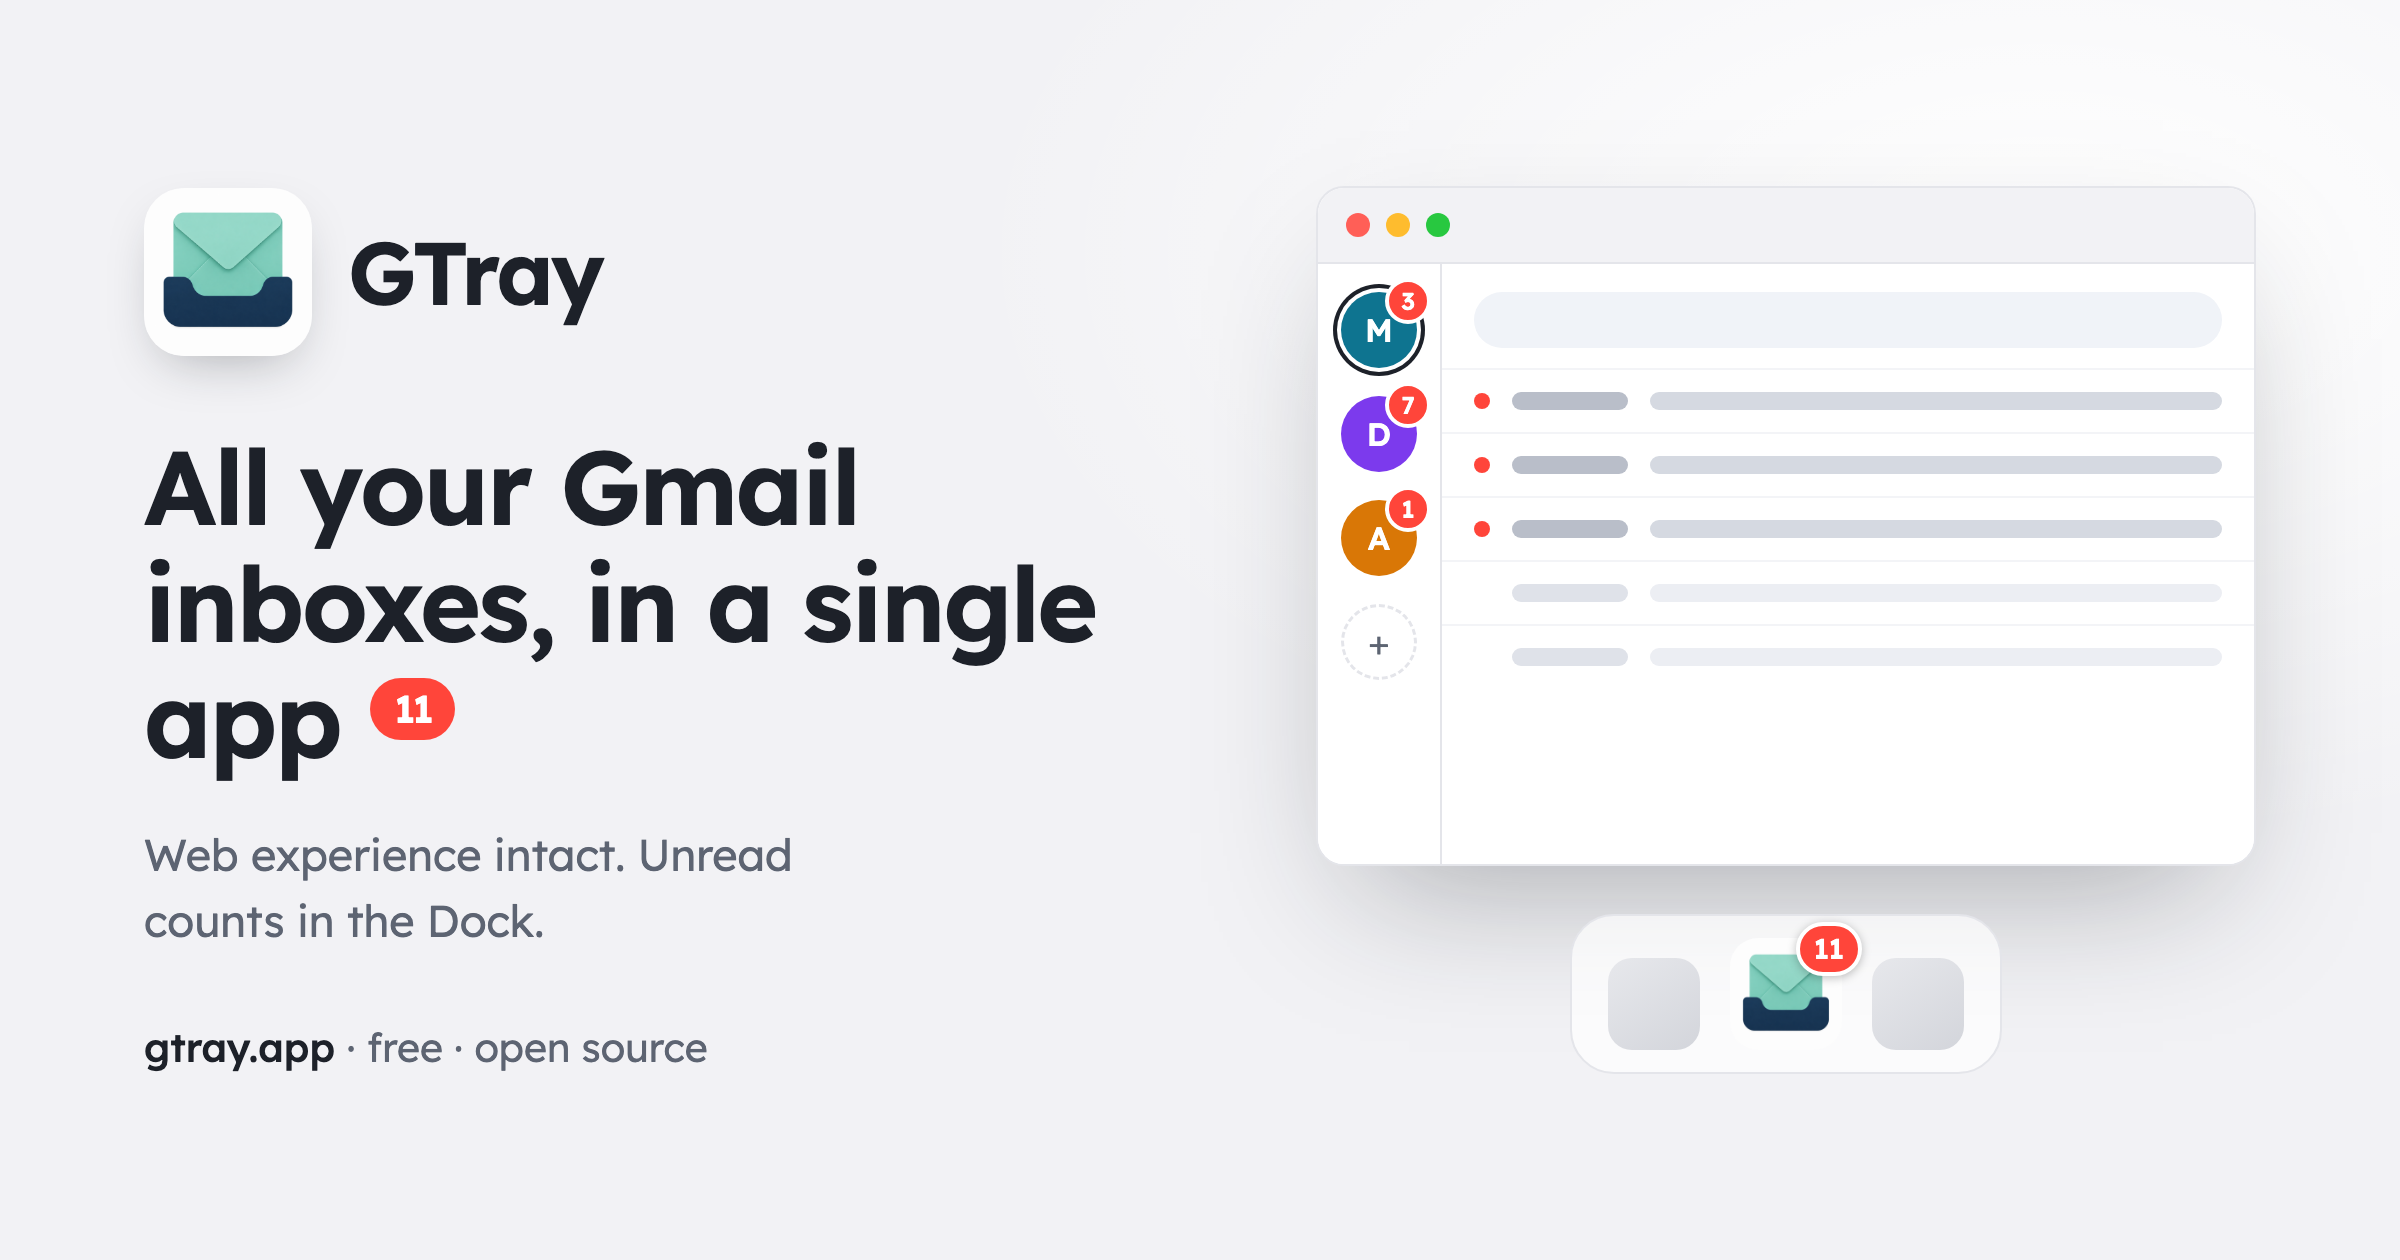
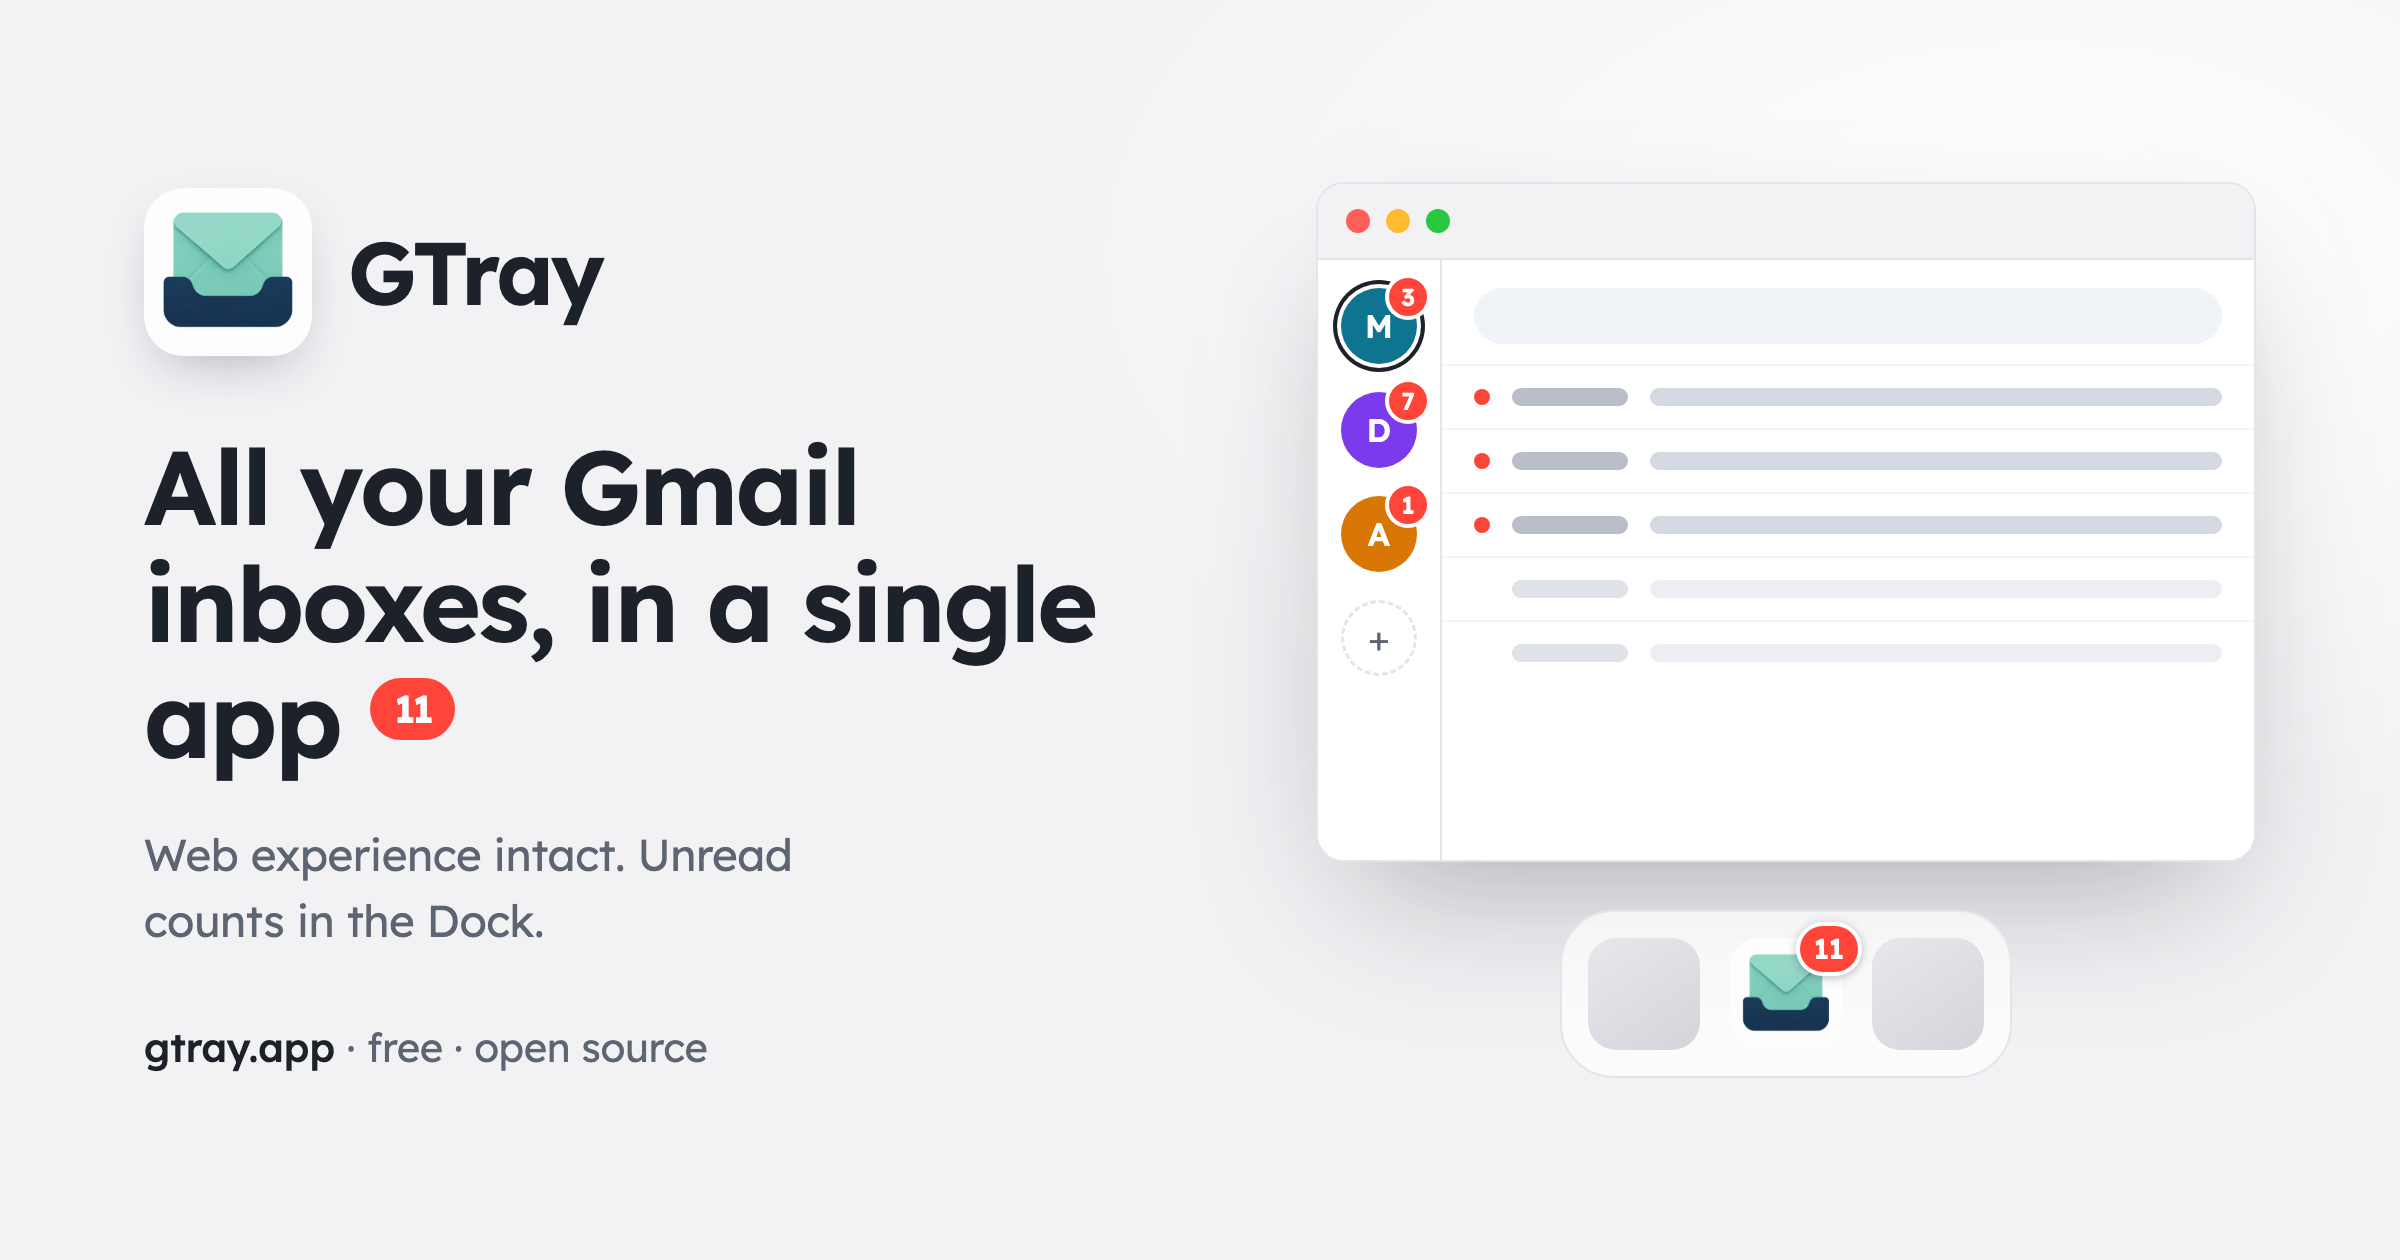
Dock mockup: concentric corners, even padding, equal tile sizes
Outer radius = tile radius + padding; the pill now hugs its content
instead of stretching to the caption width.

diff --git a/landing/index.html b/landing/index.html
@@ -188,13 +188,15 @@
 
   /* ---------- dock ---------- */
   .dock {
-    display: flex; align-items: flex-end; gap: 14px;
-    padding: 10px 16px;
+    display: flex; align-items: center; gap: 14px;
+    width: fit-content; margin: 0 auto;
+    /* concentric: outer radius = tile radius (13) + padding (12) */
+    padding: 12px;
     background: rgba(242, 242, 245, 0.85);
     border: 1px solid var(--line);
-    border-radius: 20px;
+    border-radius: 25px;
   }
-  .dock .app { width: 44px; height: 44px; border-radius: 11px; background: linear-gradient(145deg, #e7e8ec, #d3d5db); }
+  .dock .app { width: 52px; height: 52px; border-radius: 13px; background: linear-gradient(145deg, #e7e8ec, #d3d5db); }
   .dock .gtray { position: relative; width: 52px; height: 52px; }
   .dock .gtray img { width: 52px; height: 52px; border-radius: 13px; display: block; }
   .dock .gtray .count {

diff --git a/landing/og.html b/landing/og.html
@@ -106,13 +106,14 @@
   .row.unread .subject { background: #d5d9e1; }
 
   .dock {
-    display: flex; align-items: flex-end; gap: 15px;
-    padding: 11px 18px;
+    display: flex; align-items: center; gap: 15px;
+    /* concentric: outer radius = tile radius (14) + padding (13) */
+    padding: 13px;
     background: rgba(255, 255, 255, 0.7);
     border: 1px solid #e4e5ea;
-    border-radius: 22px;
+    border-radius: 27px;
   }
-  .dock .app { width: 46px; height: 46px; border-radius: 12px; background: linear-gradient(145deg, #e7e8ec, #d3d5db); }
+  .dock .app { width: 56px; height: 56px; border-radius: 14px; background: linear-gradient(145deg, #e7e8ec, #d3d5db); }
   .dock .gtray { position: relative; width: 56px; height: 56px; }
   .dock .gtray img { width: 56px; height: 56px; border-radius: 14px; display: block; }
   .dock .gtray .count {